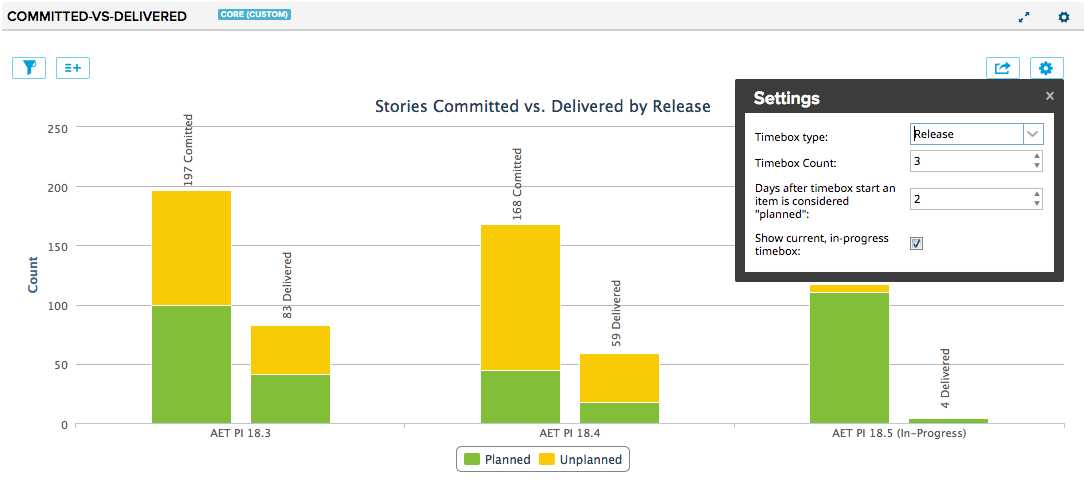
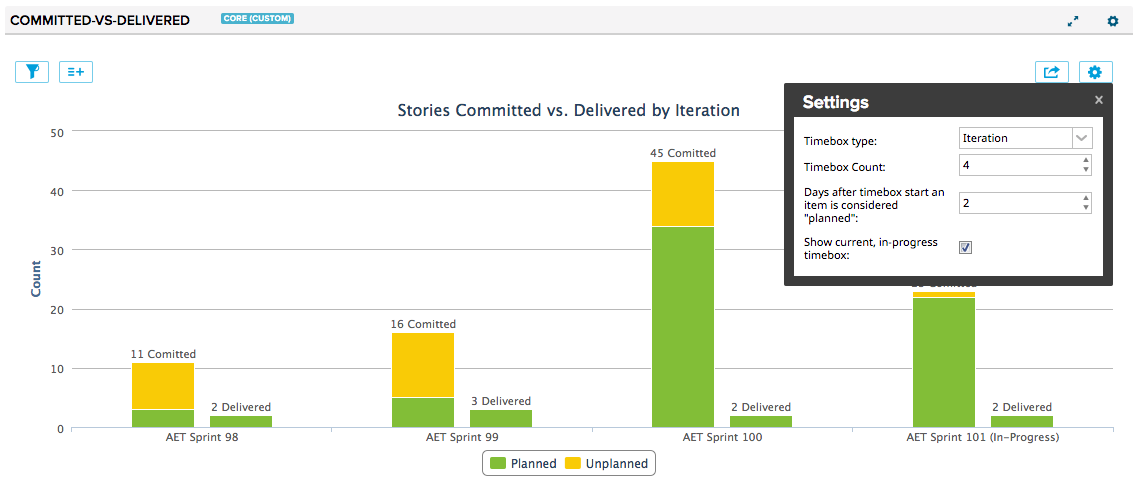
bugfixes

Changed region(s): [[0.0, 0.0, 1.0, 0.9717], [0.0304, 0.8502, 0.0609, 0.8806]]

diff --git a/src/javascript/app.js b/src/javascript/app.js
@@ -55,16 +55,7 @@ Ext.define("committed-vs-delivered", {
 
     launch: function() {
         this.modelName = 'HierarchicalRequirement';
-        this.timeboxType = this.getSetting('timeboxType');
-
-        if (this.timeboxType == Constants.TIMEBOX_TYPE_RELEASE) {
-            this.timeboxStartDateField = 'ReleaseStartDate';
-            this.timeboxEndDateField = 'ReleaseDate';
-        }
-        else if (this.timeboxType == Constants.TIMEBOX_TYPE_ITERATION) {
-            this.timeboxStartDateField = 'StartDate';
-            this.timeboxEndDateField = 'EndDate'
-        }
+        this.setTimeboxFieldsForType(this.getSetting('timeboxType'));
 
         // Add the ancestor filter plugin
         var ancestorFilterPluginPromise = Ext.create('Deft.Deferred');
@@ -117,6 +108,19 @@ Ext.define("committed-vs-delivered", {
                 this.viewChange();
             }
         })
+    },
+
+    setTimeboxFieldsForType: function(timeboxType) {
+        this.timeboxType = timeboxType;
+
+        if (this.timeboxType == Constants.TIMEBOX_TYPE_RELEASE) {
+            this.timeboxStartDateField = 'ReleaseStartDate';
+            this.timeboxEndDateField = 'ReleaseDate';
+        }
+        else if (this.timeboxType == Constants.TIMEBOX_TYPE_ITERATION) {
+            this.timeboxStartDateField = 'StartDate';
+            this.timeboxEndDateField = 'EndDate'
+        }
     },
 
     /**
@@ -261,9 +265,31 @@ Ext.define("committed-vs-delivered", {
         var fields = this.getFieldsFromButton();
         fields = fields.concat(Constants.DERIVED_FIELDS);
         return _.reduce(fields, function(accum, field) {
-            accum[field] = field;
+            accum[field] = this.headerName(field);
             return accum;
-        }, {});
+        }, {}, this);
+    },
+
+    headerName: function(field) {
+        var result;
+        switch (field) {
+            case "Iteration":
+                result = 'CurrentIteration'
+                break;
+            case "Release":
+                result = 'CurrentRelease'
+                break;
+            case 'timeboxName':
+                result = Constants.SNAPSHOT_LABEL + this.timeboxType + 'Name';
+                break;
+            default:
+                result = field;
+        }
+        // Substitute 'IterationStartDate' for 'timeboxStartDate', etc
+        if (result.startsWith('timebox')) {
+            result = field.replace('timebox', this.timeboxType);
+        }
+        return result;
     },
 
     getFiltersFromButton: function() {
@@ -363,7 +389,7 @@ Ext.define("committed-vs-delivered", {
                                                     artifact.set('AcceptedBeforeTimeboxStart', true);
                                                 }
                                             }
-                                            artifact.set('timeboxAddedDate', validFrom);
+                                            artifact.set('timeboxAddedDate', new Date(validFrom));
                                             artifact.set('timeboxName', timebox.get('Name'));
                                             artifact.set('timeboxStartDate', timebox.get(this.timeboxStartDateField));
                                             artifact.set('timeboxEndDate', timebox.get(this.timeboxEndDateField))
@@ -468,7 +494,6 @@ Ext.define("committed-vs-delivered", {
                         dataLabels: {
                             align: 'center',
                             verticalAlign: 'top',
-                            rotation: -90,
                         }
                     }
                 },
@@ -486,7 +511,8 @@ Ext.define("committed-vs-delivered", {
                         enabled: true,
                         format: '{total} ' + Constants.COMMITTED,
                         inside: false,
-                        y: -40
+                        y: -20,
+                        overflow: 'justify'
                     },
                     data: unplannedComitted,
                     stack: 0,
@@ -502,7 +528,8 @@ Ext.define("committed-vs-delivered", {
                         enabled: true,
                         format: '{total} ' + Constants.DELIVERED,
                         inside: false,
-                        y: -40
+                        y: -20,
+                        overflow: 'justify'
                     },
                     data: unplannedDelivered,
                     stack: 1,
@@ -706,7 +733,9 @@ Ext.define("committed-vs-delivered", {
                             settings: {
                                 timeboxType: newValue
                             }
-                        })
+                        });
+                        // Choice of timebox has changed
+                        this.setTimeboxFieldsForType(newValue);
                     }
                 }
             }

diff --git a/src/javascript/utils/Constants.js b/src/javascript/utils/Constants.js
@@ -26,6 +26,7 @@ Ext.define('Constants', {
         TIMEBOX_TYPE_ITERATION: 'Iteration',
         TIMEBOX_TYPE_RELEASE: 'Release',
         TIMEBOX_TYPE_ITERATION_LABEL: 'Iteration',
-        TIMEBOX_TYPE_RELEASE_LABEL: 'Release'
+        TIMEBOX_TYPE_RELEASE_LABEL: 'Release',
+        SNAPSHOT_LABEL: 'Snapshot'
     }
 });
